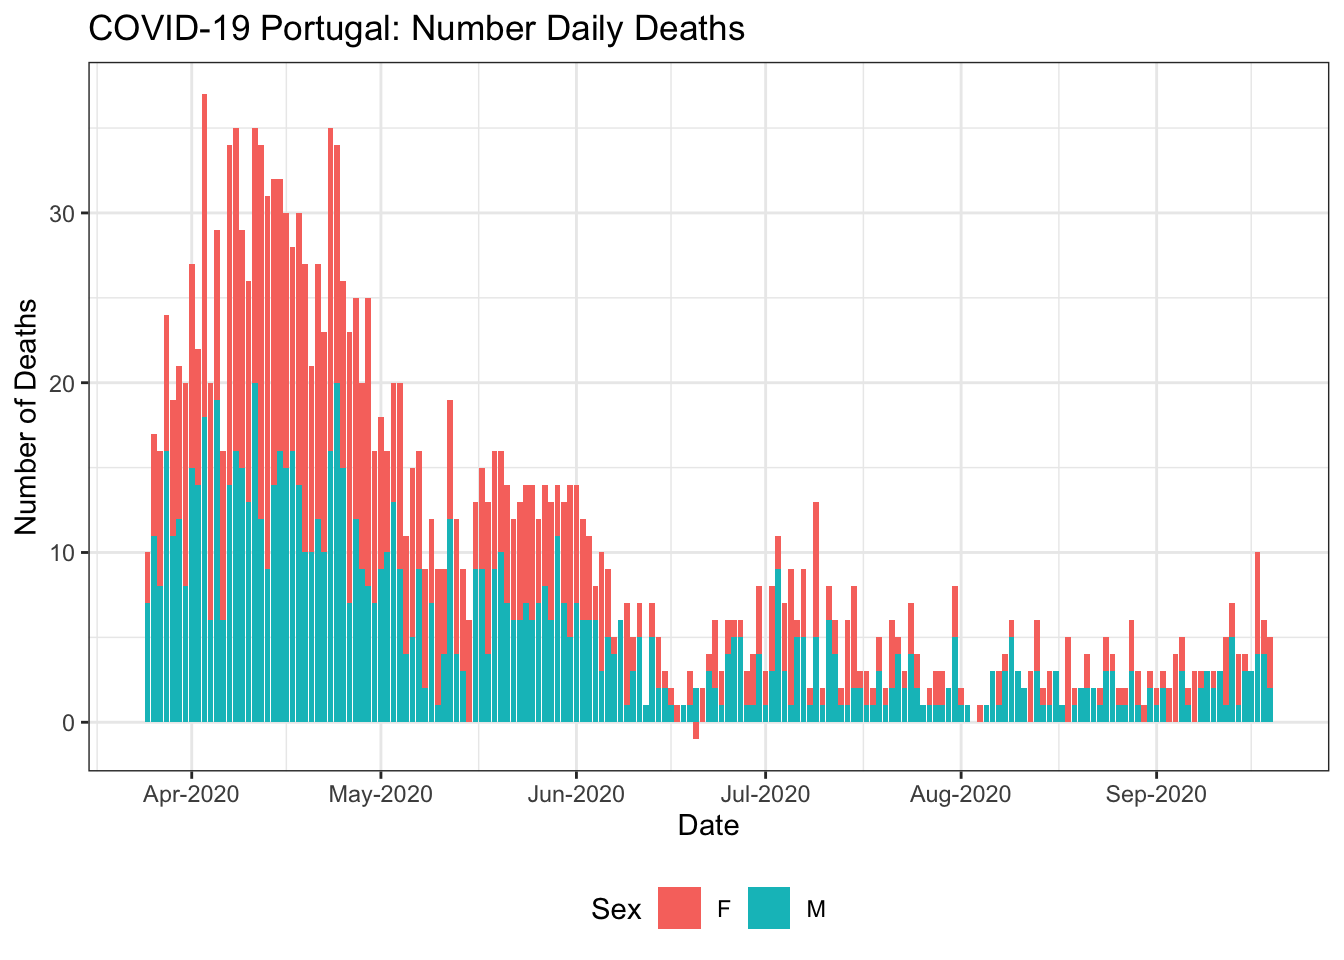
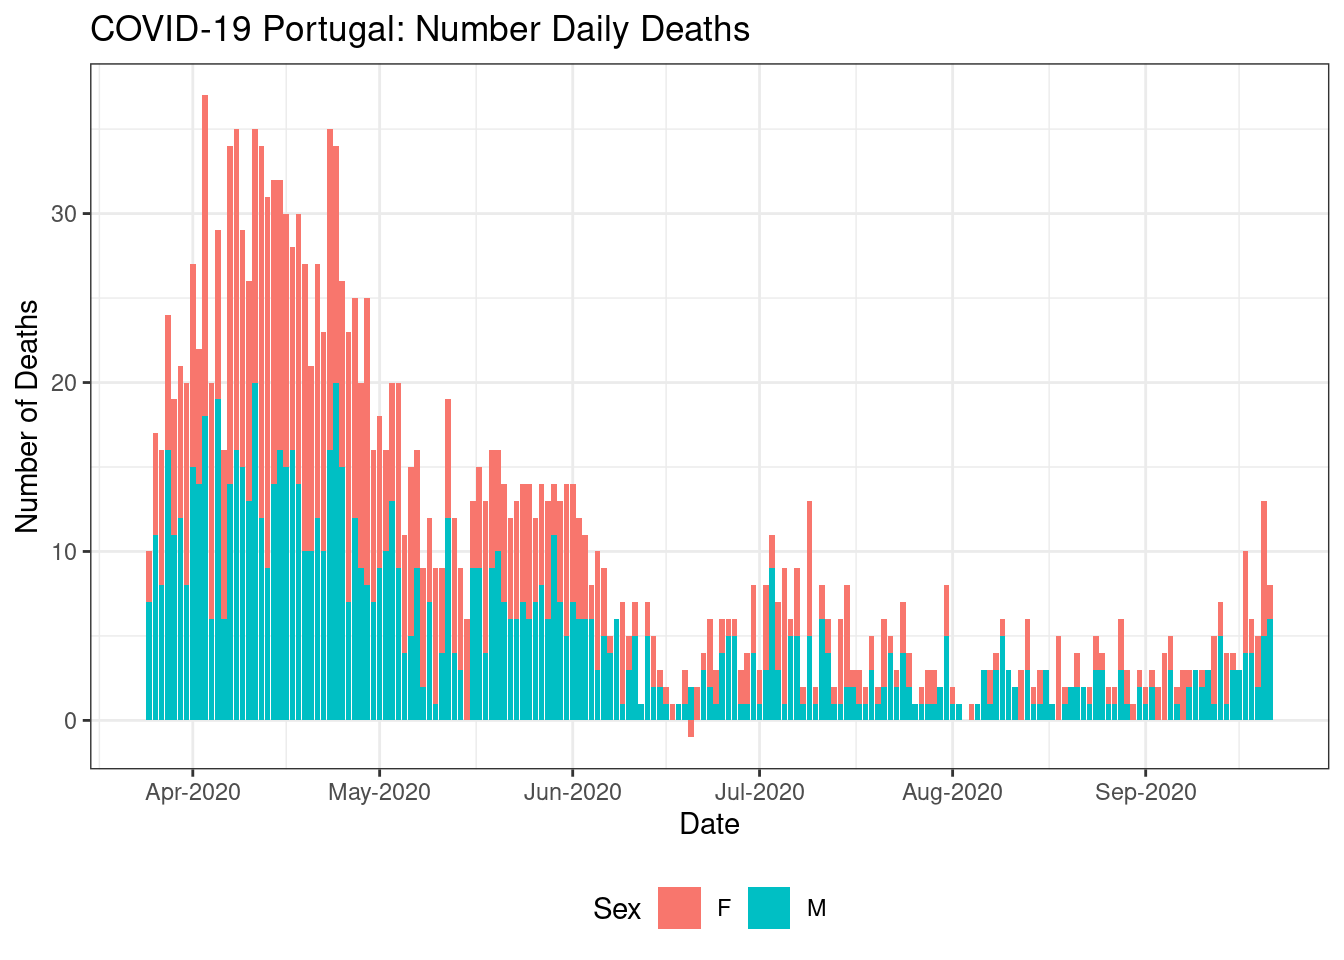
Manual update due to a delay in the data release

diff --git a/README.md b/README.md
@@ -4,9 +4,9 @@ README](https://github.com/CEAUL/Dados_COVID-19_PT/workflows/Render%20README/bad
 
 ## Daily Portuguese COVID-19 Data
 
-**Last updated: Mon 21 Sep 2020 (16:18:12 UTC \[+0000\])**
+**Last updated: Tue 22 Sep 2020 (10:24:02 WEST \[+0100\])**
 
-  - Data available from **26 Feb 2020** until **19 Sep 2020** (207
+  - Data available from **26 Feb 2020** until **21 Sep 2020** (209
     days).
 
 ### Download User Friendly Version
@@ -47,8 +47,6 @@ The original data were downloaded from an API provide by VOST
 
 |            Date | Cases\_7\_Day\_Mean |        Cases |       Active |    Recovered |     Deaths |
 | --------------: | ------------------: | -----------: | -----------: | -----------: | ---------: |
-| Thu 10 Sep 2020 |               439.3 | 62126 (+585) | 16833 (+425) | 43441 (+157) |  1852 (+3) |
-| Fri 11 Sep 2020 |               479.4 | 62813 (+687) | 17314 (+481) | 43644 (+203) |  1855 (+3) |
 | Sat 12 Sep 2020 |               481.0 | 63310 (+497) | 17556 (+242) | 43894 (+250) |  1860 (+5) |
 | Sun 13 Sep 2020 |               532.1 | 63983 (+673) | 18047 (+491) | 44069 (+175) |  1867 (+7) |
 | Mon 14 Sep 2020 |               584.1 | 64596 (+613) | 18540 (+493) | 44185 (+116) |  1871 (+4) |
@@ -57,6 +55,8 @@ The original data were downloaded from an API provide by VOST
 | Thu 17 Sep 2020 |               610.0 | 66396 (+770) | 19714 (+494) | 44794 (+266) | 1888 (+10) |
 | Fri 18 Sep 2020 |               623.3 | 67176 (+780) | 20229 (+515) | 45053 (+259) |  1894 (+6) |
 | Sat 19 Sep 2020 |               673.6 | 68025 (+849) | 20722 (+493) | 45404 (+351) |  1899 (+5) |
+| Sun 20 Sep 2020 |               656.3 | 68577 (+552) | 21069 (+347) | 45596 (+192) | 1912 (+13) |
+| Mon 21 Sep 2020 |               657.7 | 69200 (+623) | 21544 (+475) | 45736 (+140) |  1920 (+8) |
 
 Change from previous day in brackets.
 
@@ -81,19 +81,19 @@ CV <- fread(here("data", "covid19pt_DSSG_Long.csv"))
 # Looking at the data:
 tail(CV)
 ##          data   origVars   origType other symptoms sex ageGrpLower ageGrpUpper
-## 1: 2020-09-14 vigilancia vigilancia                All                        
-## 2: 2020-09-15 vigilancia vigilancia                All                        
-## 3: 2020-09-16 vigilancia vigilancia                All                        
-## 4: 2020-09-17 vigilancia vigilancia                All                        
-## 5: 2020-09-18 vigilancia vigilancia                All                        
-## 6: 2020-09-19 vigilancia vigilancia                All                        
+## 1: 2020-09-16 vigilancia vigilancia                All                        
+## 2: 2020-09-17 vigilancia vigilancia                All                        
+## 3: 2020-09-18 vigilancia vigilancia                All                        
+## 4: 2020-09-19 vigilancia vigilancia                All                        
+## 5: 2020-09-20 vigilancia vigilancia                All                        
+## 6: 2020-09-21 vigilancia vigilancia                All                        
 ##    ageGrp   region value valueUnits
-## 1:        Portugal 36758      Count
-## 2:        Portugal 36955      Count
-## 3:        Portugal 37287      Count
-## 4:        Portugal 37804      Count
-## 5:        Portugal 38721      Count
-## 6:        Portugal 39388      Count
+## 1:        Portugal 37287      Count
+## 2:        Portugal 37804      Count
+## 3:        Portugal 38721      Count
+## 4:        Portugal 39388      Count
+## 5:        Portugal 39362      Count
+## 6:        Portugal 40465      Count
 
 # Order data by original variable name and date.
 setkeyv(CV, c("origVars", "data"))
@@ -143,7 +143,7 @@ CV[origType=="confirmados" & ageGrp=="" & region!="Portugal"] %>%
     y = "Number of Confirmed Cases",
     colour = "Region")
 ## Warning: Transformation introduced infinite values in continuous y-axis
-## Warning: Removed 191 row(s) containing missing values (geom_path).
+## Warning: Removed 193 row(s) containing missing values (geom_path).
 ```
 
 <img src="README_figs/README-casesbyRegion-1.png" width="672" />
@@ -172,9 +172,9 @@ CV[dailyChange<0 & !(origType %in% c("vigilancia", "internados"))][
 ##   4: 2020-03-24 confirmados   confirmados_40_49_f   224          -2
 ##   5: 2020-03-19 confirmados   confirmados_60_69_f    35         -14
 ##  ---                                                               
-## 223: 2020-04-04      obitos    obitos_arsalentejo     0          -1
-## 224: 2020-05-23      obitos      obitos_arscentro   230          -3
-## 225: 2020-07-03      obitos      obitos_arscentro   248          -1
-## 226: 2020-06-20      obitos              obitos_f   768          -1
-## 227: 2020-05-21 transmissao transmissao_importada   767          -3
+## 224: 2020-04-04      obitos    obitos_arsalentejo     0          -1
+## 225: 2020-05-23      obitos      obitos_arscentro   230          -3
+## 226: 2020-07-03      obitos      obitos_arscentro   248          -1
+## 227: 2020-06-20      obitos              obitos_f   768          -1
+## 228: 2020-05-21 transmissao transmissao_importada   767          -3
 ```
